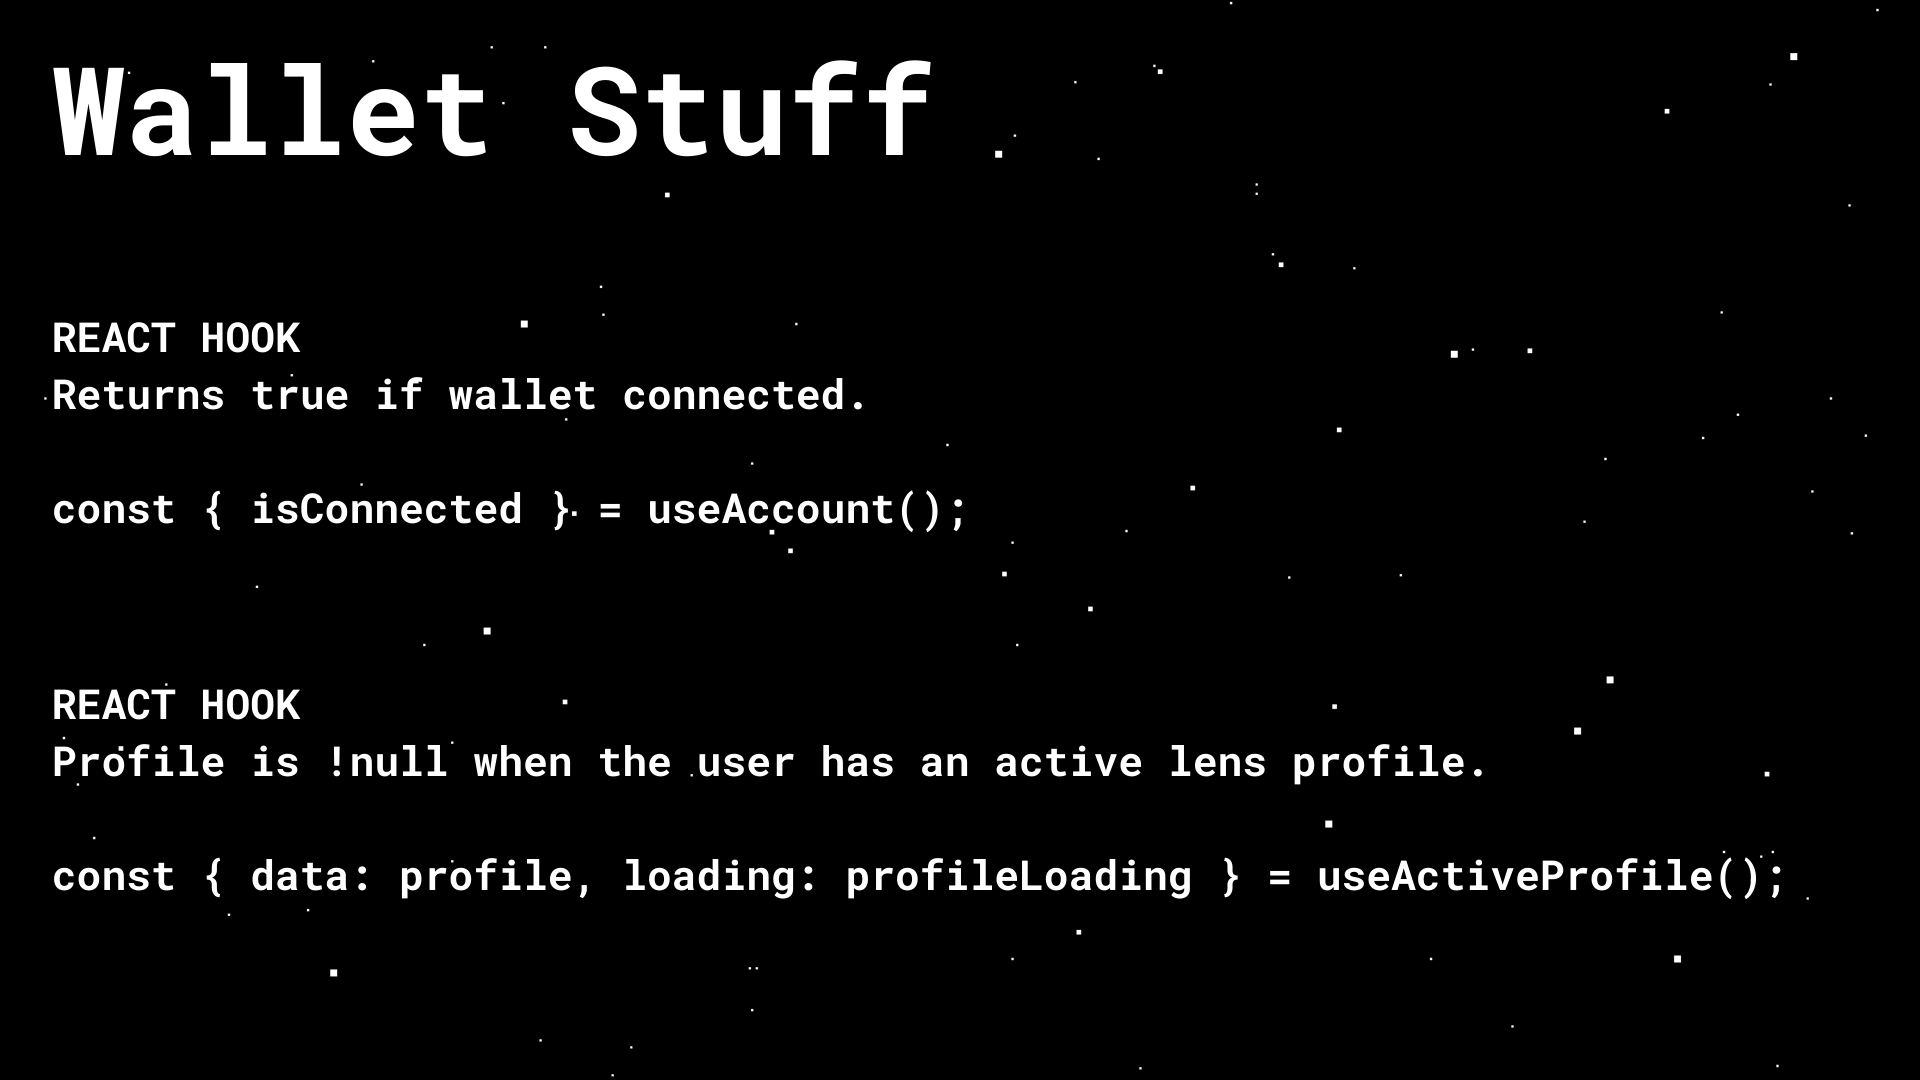
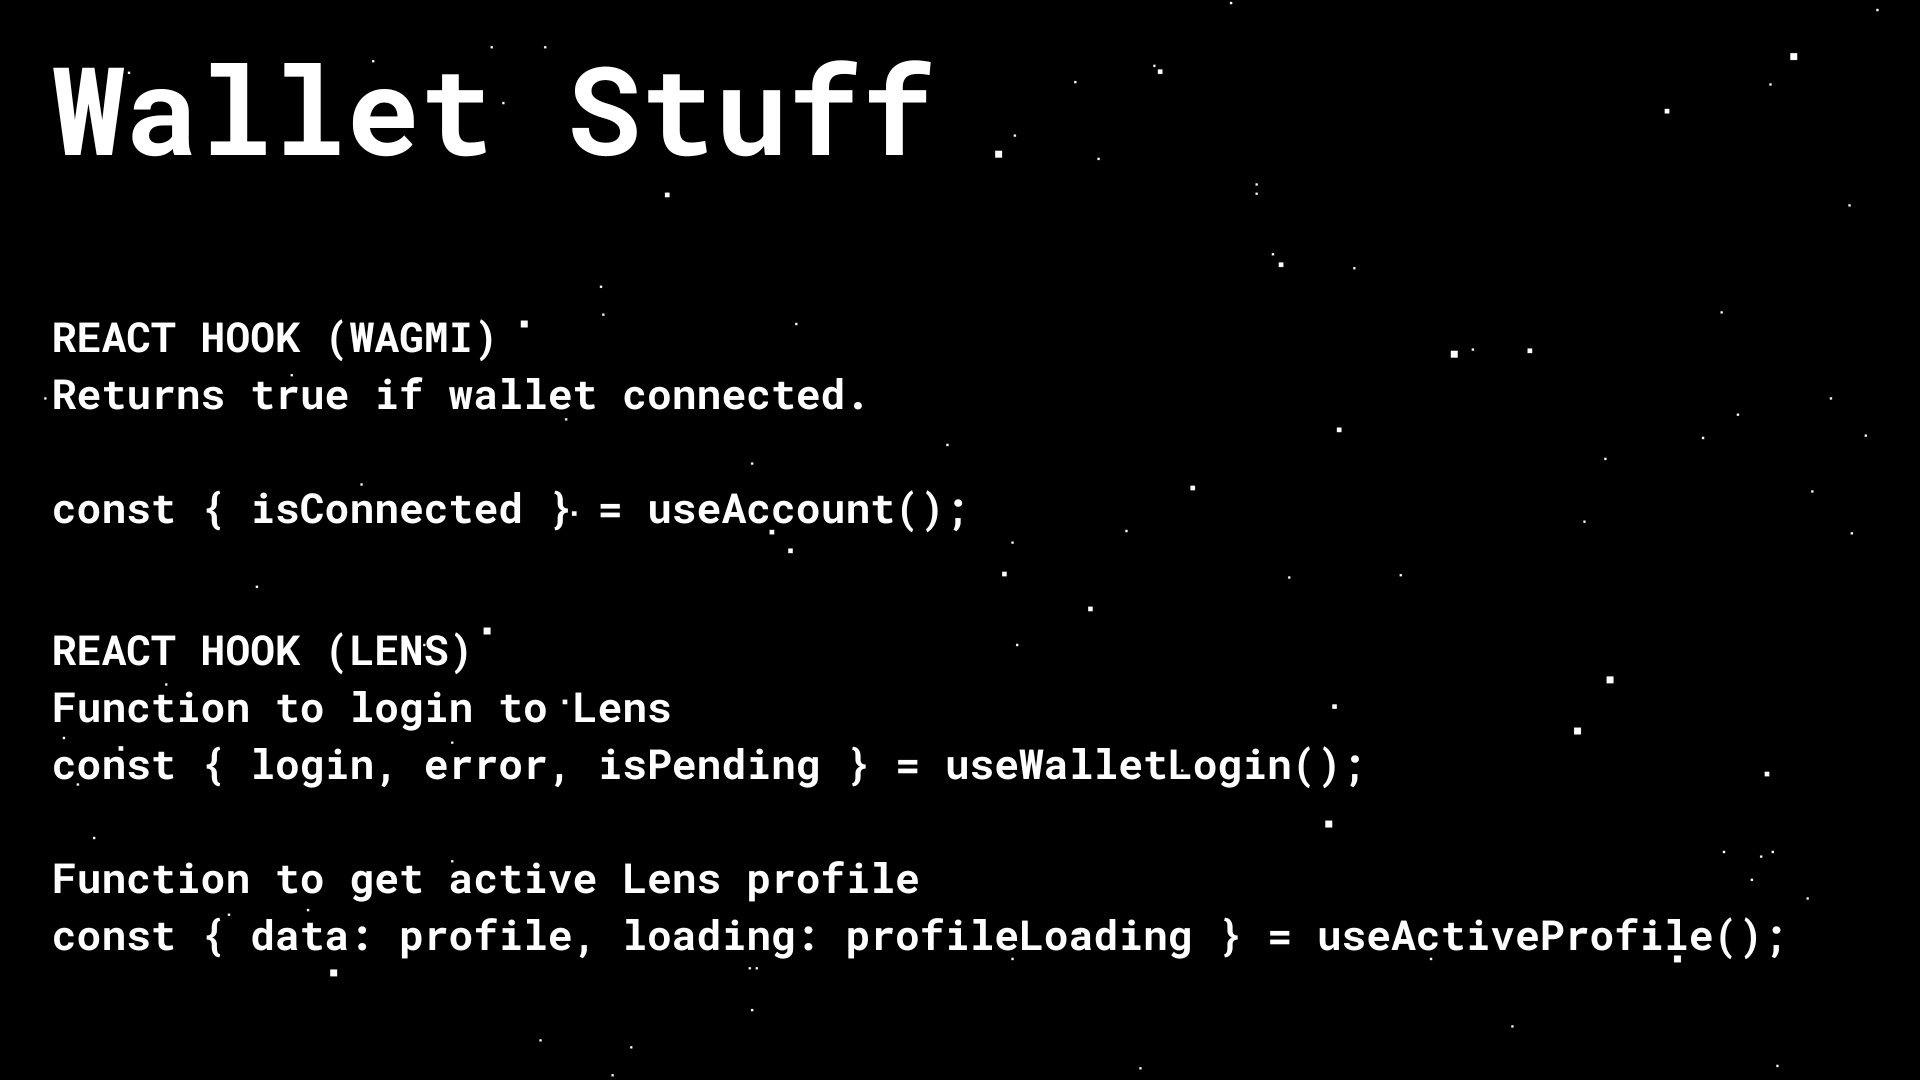
updated readme

Changed region(s): [[0.0312, 0.7944, 0.9375, 0.8861], [0.0312, 0.5806, 0.7812, 0.7333], [0.1562, 0.275, 0.25, 0.3361]]

diff --git a/src/pages/MyView.js b/src/pages/MyView.js
@@ -108,12 +108,10 @@ const MyView = () => {
 		await bundlr.ready();
 
 		try {
-			console.log("fileToUpload BEFORE =", fileToUpload);
+			// compress the image to a max width of 600px
 			const compressedFile = await compressImage(fileToUpload, 600);
-			console.log("fileToUpload AFTER=", compressedFile);
 
 			const dataStream = fileReaderStream(compressedFile);
-			console.log(dataStream.size);
 			const price = await bundlr.getPrice(dataStream.size);
 			const balance = await bundlr.getLoadedBalance();
 			if (price > balance) {

diff --git a/README.md b/README.md
@@ -1,5 +1,7 @@
 # View From My Window
 
+![Main App Page](https://github.com/lukecd/view-from-my-window/blob/main/slides/main-app-page.png?raw=true)
+
 A long, long time ago there was a hashtag trending on Instagram titled #ViewFroMyWindow. At a time when Instagram was all about showing your most polished side, #ViewFroMyWindow was all about showing just whatever you were looking at. Your view might be the beach, or it might be a car on blocks, it might be beautiful, it might be banal ... the point wasn't to impress with your amazing view, the point was to feel closer to people by seeing the world through their eyes.
 
 When I started thinking about a project I could use in some online workshops, I somehow wandered back to #ViewFroMyWindow. I got to thinking about how people in this workshop would be spread across the world, in condos, in houses, in cities and in the countryside. Sometimes we'll know each other's names, sometimes they'll just be anon and a photo. But if we each share our view, we might end up feeling just a little bit closer.
@@ -12,16 +14,79 @@ I will continue hosting the UI on my site at https://myview.luke.gallery, howeve
 
 This project used the BundlrSDK to handle uploads to Bundlr and the React hooks for Lens to handle uploads to Lens. As we're using the React hooks, we don't have to write any GraphQL ourselves ... it's way easier this way. Way easier.
 
+### App.js Setup
+
+When working with React, the provider pattern allows you to easily share data between components. You wrap a parent component with a provider tag set and then that parent and any of its children can access the data exposed by the provider. In our case, we're going to use three providers:
+
+-   wagmi: To access the wagmi hooks
+-   RainbowKit: For wallet connect
+-   Lens: For lens functionality
+
+All of our interactions with Lens will be via the React hooks and by wrapping our main parent components with the Lens provider, all of those React hooks will have the right configuration options.
+
+All three providers are configured using these values
+
+```js
+const { chains, provider, webSocketProvider } = configureChains(
+	[polygonMumbai, polygon],
+	[publicProvider()],
+);
+
+const { connectors } = getDefaultWallets({
+	appName: "View From My Window",
+	chains,
+});
+
+const wagmiClient = createClient({
+	autoConnect: true,
+	connectors,
+	provider,
+});
+
+// By adding sources: ["viewfrommywindow"] to the config,
+// I automatically restrict React hook queries to my app only
+const lensConfig = {
+	bindings: wagmiBindings(),
+	environment: staging,
+	sources: ["viewfrommywindow"],
+	storage: localStorage(),
+};
+```
+
+And then we wrap our components in the providers as follows.
+
+```js
+export default function App() {
+	return (
+		<WagmiConfig client={wagmiClient}>
+			<RainbowKitProvider chains={chains}>
+				<LensProvider config={lensConfig}>
+					...
+					<MAIN-COMPONENTS />
+					...
+				</LensProvider>
+			</RainbowKitProvider>
+		</WagmiConfig>
+	);
+}
+```
+
 ### Creating A Publication / Post
 
-When working with Lens, social posts are called Publications. To create a Publication you create structured metadata describing the Publication, upload that metadata to Bundlr and then pass the URL of the metadata to a Lens React hook.
 ![Project Overview](https://github.com/lukecd/view-from-my-window/blob/main/slides/01-workflow.png?raw=true)
+When working with Lens, social posts are called Publications. To create a Publication you create structured metadata describing the Publication, upload that metadata to Bundlr and then pass the URL of the metadata to a Lens React hook.
+
+Since we're doing image posts, there's one extra step. Before uploading the metadata to Bundlr, you need to upload the image to Bundlr and then embed the image URL in the post metadata. So for image Publications (Posts), you n+1 uploads to Bundlr, where n is the number of images used in the post.
+
+Most of this code is in the file `Pages/MyView.js`.
 
 ### Uploading To Bundlr
 
+![Uploading To Bundlr](https://github.com/lukecd/view-from-my-window/blob/main/slides/02-upload-to-bundlr.png?raw=true)
+
 Uploading to Bundlr is super easy, basically 3-4 lines of code.
 
-#### Step 1
+#### Step 1: Connect To A Node
 
 You start by connecting to a node. Specify a node address, a currency to pay with a reference to an injected provider. If you're connecting to our Devnet (where you pay with free faucet currencies), you also need to provide a provider URL.
 
@@ -33,7 +98,156 @@ const bundlr = new WebBundlr("https://devnet.bundlr.network", "matic", provider,
 });
 ```
 
-![Uploading To Bundlr](https://github.com/lukecd/view-from-my-window/blob/main/slides/02-upload-to-bundlr.png?raw=true)
+#### Step 2: Fund A Node (If Needed)
+
+Next up, you fund the node to pay for the upload. When working with Bundlr, you pay once and store forever. So your file, once uploaded, is there forever. When working with our Devnet, it's stored for a shorter period, ~2 months.
+
+In my code below, I first check the price of the upload and then see if I have enough funded balance to pay for the upload. I only fund if needed.
+
+```js
+const price = await bundlr.getPrice(dataStream.size);
+const balance = await bundlr.getLoadedBalance();
+if (price > balance) {
+	setMessage(`Funding Upload ....`);
+	await bundlr.fund(price);
+}
+```
+
+#### Step 3: Upload Data
+
+Finally, we upload. Bundlr supports [adding custom metadata](https://docs.bundlr.network/sdk/tags) to any upload, you can use for any custom use-case your app might have. In the case of images you wanted to be rendered by a browser, you will need to set the Content-Type MIME type tag.
+
+```js
+const tx = await bundlr.upload(dataStream, {
+	tags: [{ name: "Content-Type", value: fileType }],
+});
+
+console.log(`File uploaded ==> https://arweave.net/${tx.id}`);
+```
+
+### Creating A Post
+
+![Creating A Post](https://github.com/lukecd/view-from-my-window/blob/main/slides/03-create-post.png?raw=true)
+
+Once the image is uploaded, we need to create the post metadata and upload that to Bundlr. This is done using the `useCreatePost()` React hook. There's a couple of interesting things happening here.
+
+It exposes a function called `create()` that is handles creating the actual metadata for you. Also, it's passed another function called `upload()` that you have to implement.
+
+```js
+const { create, error, isPending } = useCreatePost({ profile, upload });
+```
+
+```js
+await create({
+	profileId: profile.id,
+	image: imageUrl,
+	imageMimeType: fileType,
+	contentFocus: ContentFocus.IMAGE,
+	locale: "en",
+	collect: {
+		type: CollectPolicyType.NO_COLLECT,
+	},
+	reference: ReferencePolicy.ANYBODY,
+	media: [
+		{
+			url: imageUrl,
+			mimeType: fileType,
+		},
+	],
+});
+```
+
+The `upload()` function (defined in `/utils/upload.js`) needs to match the following signature.
+
+```js
+export const upload = (data: unknown): Promise<string> => {
+    const serialized = JSON.stringify(data);
+
+    const url = // upload serialized to a public location
+
+    return url;
+}
+```
+
+In my implementation, I do two things. First I modify the metadata to include my custom app id. This is a bit hacky, but it's needed right now as the `create()` function doesn't allow for passing an app id. FWIU, it's going to be added in a future release.
+
+The second thing I do is actually upload the metadata.
+
+```js showLineNumbers
+export const upload = async (data) => {
+	// hack to add appid
+	data.appId = "viewfrommywindow";
+	const metadataUrl = await uploadMetadata(data);
+	console.log("metadataUrl=", metadataUrl);
+	return metadataUrl;
+};
+```
+
+There's no need to show the whole `uploadMetadata()` function here, as it's basically the same as what I do when uploading the image, but it's worth calling out that you must use the `Content-Type` MIME type to specify that the file is `json` data. If you leave that out,things won't work right when passing the metadata URL to Lens.
+
+```js
+const serialized = JSON.stringify(data);
+const tx = await bundlr.upload(serialized, {
+	tags: [{ name: "Content-Type", value: "application/json" }],
+});
+```
+
+You'll notice on line 6 of the `upload()` function, I end by returning the URL to the post metadata. This return value is then picked up by the Lens React hook and used to create the post. It's one of the places these React hooks really shine and make your job much easier. When using the Lens SDK via GraphQL, you have to do much more work for this last step.
+
+### Wallet Stuff
+
+![Lens Login and Wallet Connect](https://github.com/lukecd/view-from-my-window/blob/main/slides/02-upload-to-bundlr.png?raw=true)
+
+Before letting someone post a photo, they need to connect their wallet and login to Lens. When you log into Lens, you get back an authentication token that's used in subsequent transactions that involve saving data.
+
+To test if someone has connected their wallet, we use the following hook from WAGMI.
+
+```js
+const { isConnected } = useAccount();
+```
+
+Then I test if the user has an active profile with `useActiveProfile()` and if they do, I know they are logged in and have an active profile. If they don't have an active profile, I use `useWalletLogin()` to log them in.
+
+When working with Lens, a single wallet can have more than one profile ... but for the sake of simplicity, I haven't built a component that shows all profiles and allows a user to switch between them (but that's a great idea for a post tutorial challenge if you want to push your skills:)).
+
+```js
+const { data: profile, loading: profileLoading } = useActiveProfile();
+const { login, error, isPending } = useWalletLogin();
+```
+
+### Creating A Profile
+
+![Creating A Profile](https://github.com/lukecd/view-from-my-window/blob/main/slides/05-create-profile.png?raw=true)
+
+All of this code is contained in `pages/CreateProfile.js`.
+
+Ok, you can post images, but only if you're logged in and you can only login if you have a profile ... so how to create a profile.
+
+On the Lens Mainnet, you have to be whitelisted to create a new profile, so nothing we can do there. BUT on the Mumbai testnet where we're deploying this project, anyone can create as many accounts as they want.
+
+:::note
+Handles created on the testnet are in the form "foo.test", handles created on mainnet are in the form "foo.lens". When passing in a handle to check if valid or create new, only pass the "foo" part, do not include the ".lens" or ".test".
+:::
+
+The `isValidHandle()` React hook returns true if the handle passed is valid.
+
+To actually create a profile use the `create()` function exposed by the `useCreateProfile()` React hook. After calling `create()`, if `error` has a value of `DuplicatedHandleError`, we know the value passed wasn't unique. If `error` is `null` and `isPending` is false, the account has been created.
+
+```js
+const { create, error, isPending } = useCreateProfile();
+```
+
+### Reading Posts
+
+This code is all in `pages/EnjoyTheView.js`.
+
+![Viewing Posts](https://github.com/lukecd/view-from-my-window/blob/main/slides/07-viewing-posts.png?raw=true)
+
+For reading posts, we use the React hook `useExplorePublications()`, which allows you to "explore different publications on Lens Protocol from a variety of people that you may not yet follow". What's interesting is that since we used our app id as an optional parameter when setting up the Lens Provider, all publications exposed will be from our #ViewFromMyWindow app.
+
+```js
+const { data: publications, loading, hasMore, next } = useExplorePublications();
+```
 
 ## Project Setup
 
